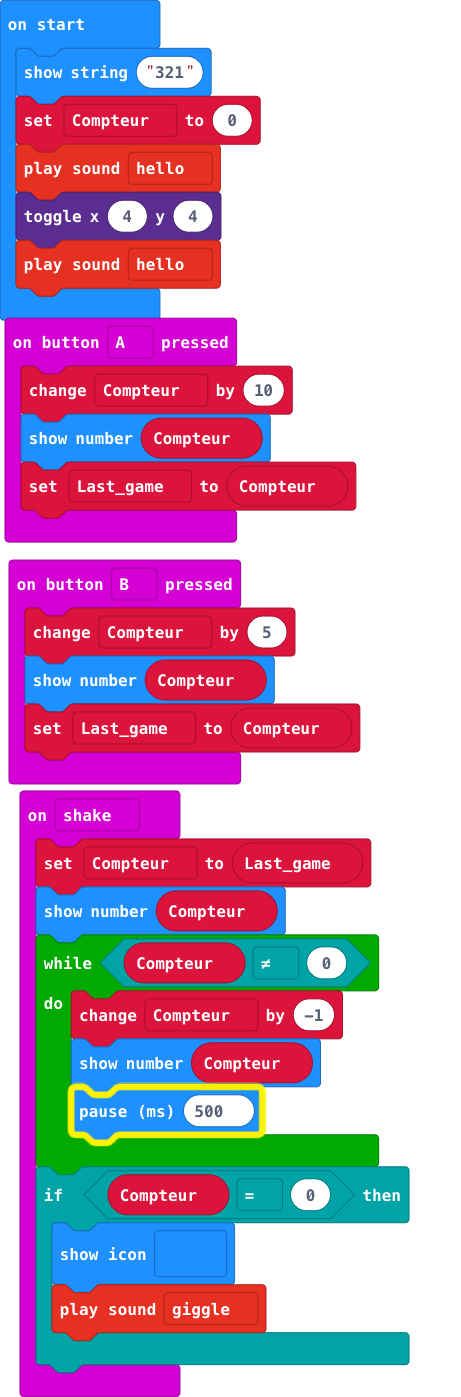
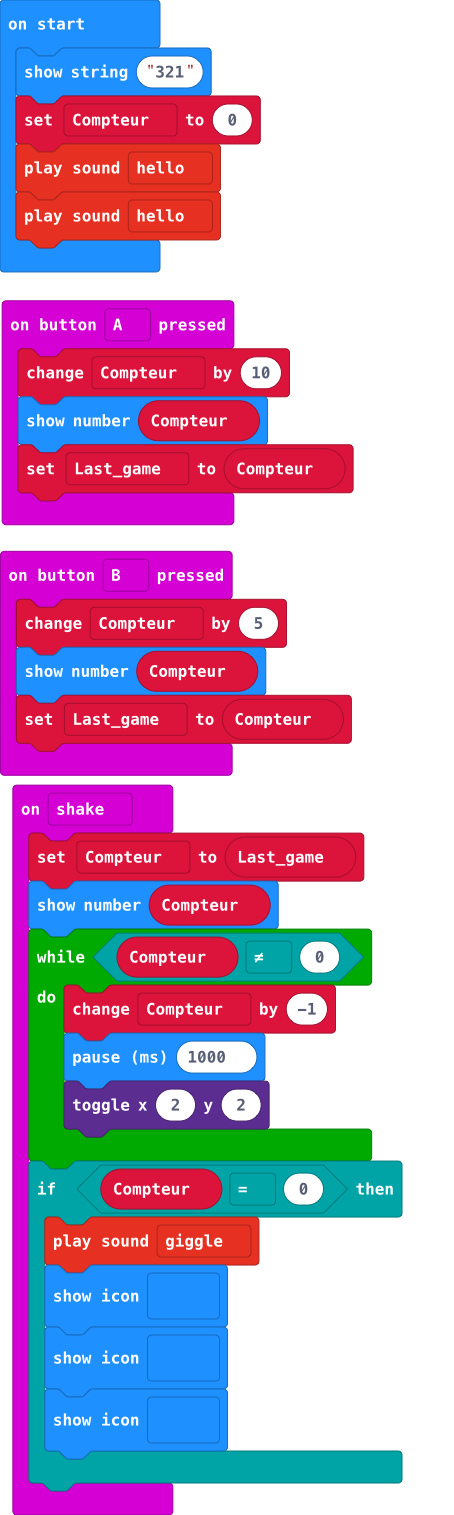
Update main.blocks, main.ts

diff --git a/main.ts b/main.ts
@@ -13,12 +13,14 @@ input.onGesture(Gesture.Shake, function () {
     basic.showNumber(Compteur)
     while (Compteur != 0) {
         Compteur += -1
-        basic.showNumber(Compteur)
-        basic.pause(500)
+        basic.pause(1000)
+        led.toggle(2, 2)
     }
     if (Compteur == 0) {
-        basic.showIcon(IconNames.Square)
         soundExpression.giggle.play()
+        basic.showIcon(IconNames.Chessboard)
+        basic.showIcon(IconNames.Diamond)
+        basic.showIcon(IconNames.SmallDiamond)
     }
 })
 let Last_game = 0
@@ -26,5 +28,4 @@ let Compteur = 0
 basic.showString("321")
 Compteur = 0
 soundExpression.hello.play()
-led.toggle(4, 4)
 soundExpression.hello.play()
